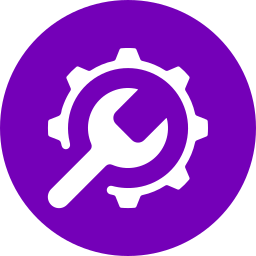
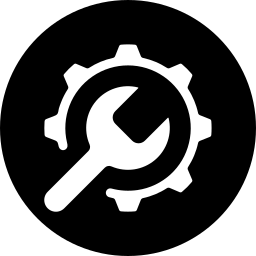
after turned to black mode

diff --git a/index.html b/index.html
@@ -57,7 +57,7 @@
         <section class="parts part-2 w-100 d-flex flex-column flex-md-row">
             <div class="slide-2 slide d-flex justify-content-center align-items-center">
                 <div class="slide-image-container d-flex justify-content-center align-items-center">
-                    <img src="./images/93413-rocket-purple.gif" alt="the animation">
+                    <img src="./images/93694-work-from-home.gif" alt="the animation">
                 </div>
             </div> 
             <div class="slide-1 slide d-flex flex-column justify-content-center">
@@ -81,9 +81,29 @@
             </div>
             <div class="slide-2 slide d-flex justify-content-center align-items-center">
                 <div class="slide-image-container d-flex justify-content-center align-items-center">
-                    <img src="./images/undraw_building_blocks_re_5ahy.svg" alt="the animation">
+                    <img src="./images/undraw_building_blocks_re_5ahy_black.svg" alt="the animation">
                 </div>
             </div> 
+        </section>
+        <hr width="80%">
+        <section class="parts part-2 w-100 d-flex flex-column flex-md-row">
+            <div class="slide-2 slide d-flex justify-content-center align-items-center">
+                <div class="slide-image-container d-flex justify-content-center align-items-center">
+                    <img src="./images/undraw_trendy_interface_re_xsou.svg" alt="the animation">
+                </div>
+            </div> 
+            <div class="slide-1 slide d-flex flex-column justify-content-center">
+                <div class="w-100 d-flex flex-column slide-data">
+                    <div class="slide-data-icon d-flex justify-content-center align-items-center">
+                        <i class="bi bi-stack"></i>
+                    </div>
+                    <div class="slide-data-title"> Commencer des maintenant </div>
+                    <div class="button d-flex align-items-center">
+                        <i class="bi bi-puzzle-fill"></i>
+                        <span> Commencer </span>
+                    </div>
+                </div>
+            </div>
         </section>
         <section class="d-flex justify-content-center align-items-center parts part-3"></section>
     </main>

diff --git a/css/_index.css b/css/_index.css
@@ -128,6 +128,12 @@ main{
     border-radius: 100%;
 }
 
+@media screen and ( max-width: 768px ) {
+    .slide-data .slide-data-icon{
+        align-self: center;
+    }
+}
+
 .slide-data .slide-data-icon i{
     font-size: 50px;
     color: var( --cultured );
@@ -141,6 +147,29 @@ main{
     font-family: plento;
     color: var(--purple);
     letter-spacing: 0.18em;
+}
+
+.slide-data .button{
+    background-color: var(--purple);
+    width: 100%;
+    max-width: fit-content;
+    padding: 15px 20px;
+    border-radius: 10px;
+    color: var(--cultured);
+    text-transform: uppercase;
+    font-weight: 600;
+    margin-top: 40px;
+    cursor: pointer;
+}
+
+.slide-data .button i{
+    font-size: 25px;
+}
+
+.slide-data .button span{
+    margin-left: 5px;
+    font-weight: 600;
+    letter-spacing: 0.12em;
 }
 
 @media screen and ( min-width: 992px ) {

diff --git a/css/_form.css b/css/_form.css
@@ -138,11 +138,11 @@ form{
 }
 
 .field input:focus ~ i{
-    color: purple;
+    color: var(--purple);
 }
 
 .field input:focus ~ label{
-    color: purple;
+    color: var(--purple);
     height: fit-content;
     font-size: 0.65em;
     top: 10px;
@@ -156,7 +156,7 @@ form{
 }
 
 .field input:focus ~ span{
-    background-color: purple;
+    background-color: var(--purple);
 }
 
 .form-error{

diff --git a/css/global.css b/css/global.css
@@ -23,8 +23,8 @@
     --davys-grey: #495057ff;
     --onyx: #343a40ff;
     --eerie-black: #212529ff;
-    --purple: #7400b8ff;
-    --french-violet: #6930c3ff;
+    --purple: /*#7400b8ff*/#000000;
+    --french-violet: /*#6930c3ff*/#111111;
     --slate-blue: #5e60ceff;
     --united-nations-blue: #5390d9ff;
     --carolina-blue: #4ea8deff;
